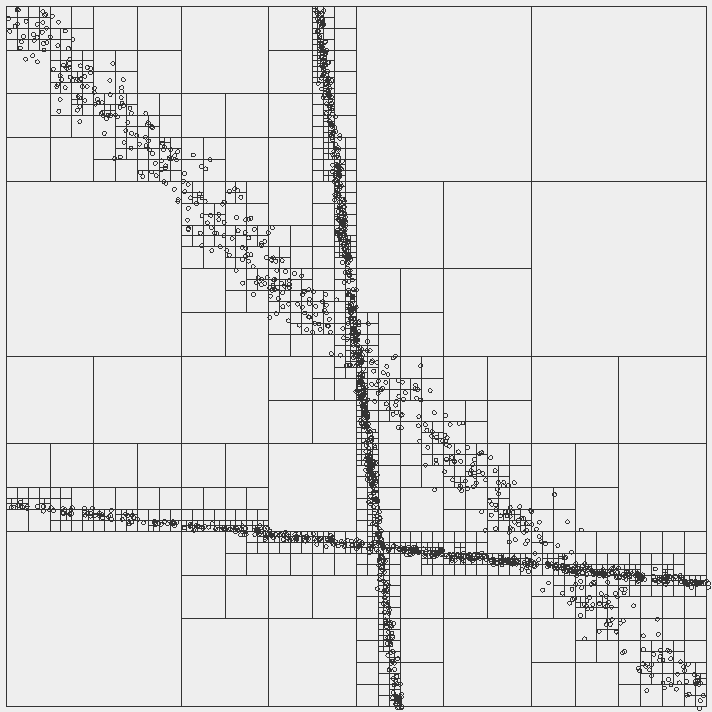
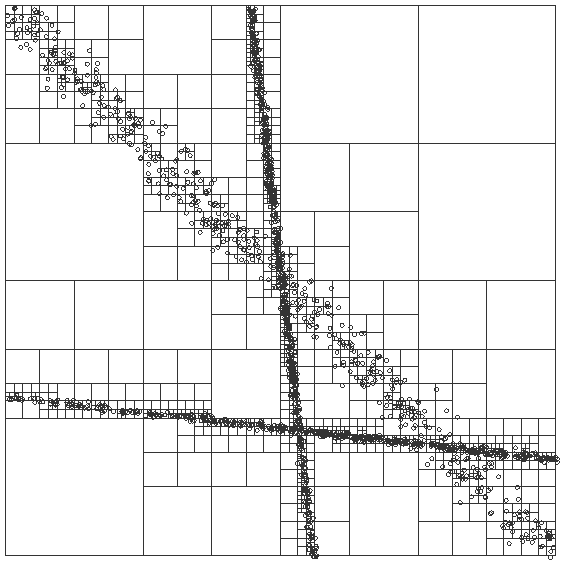
Add image of quadtree with white background

Changed region(s): [[0.0, 0.0, 1.0, 1.0]]

diff --git a/site/index.md b/site/index.md
@@ -20,7 +20,7 @@ title: Home
 
 ## Info
 - [Quadtrees](infoposts/quadtrees.html)
-- [Quadtree algorithm for adding points](infoposts/point_adding_to_quadtree.htmlhtml)
+- [Quadtree algorithm for adding points](infoposts/point_adding_to_quadtree.html)
 - [Randomly generated data](infoposts/randomdata.html)
 - [Adding real data](infoposts/real_data/adding_real_data.html)
 
